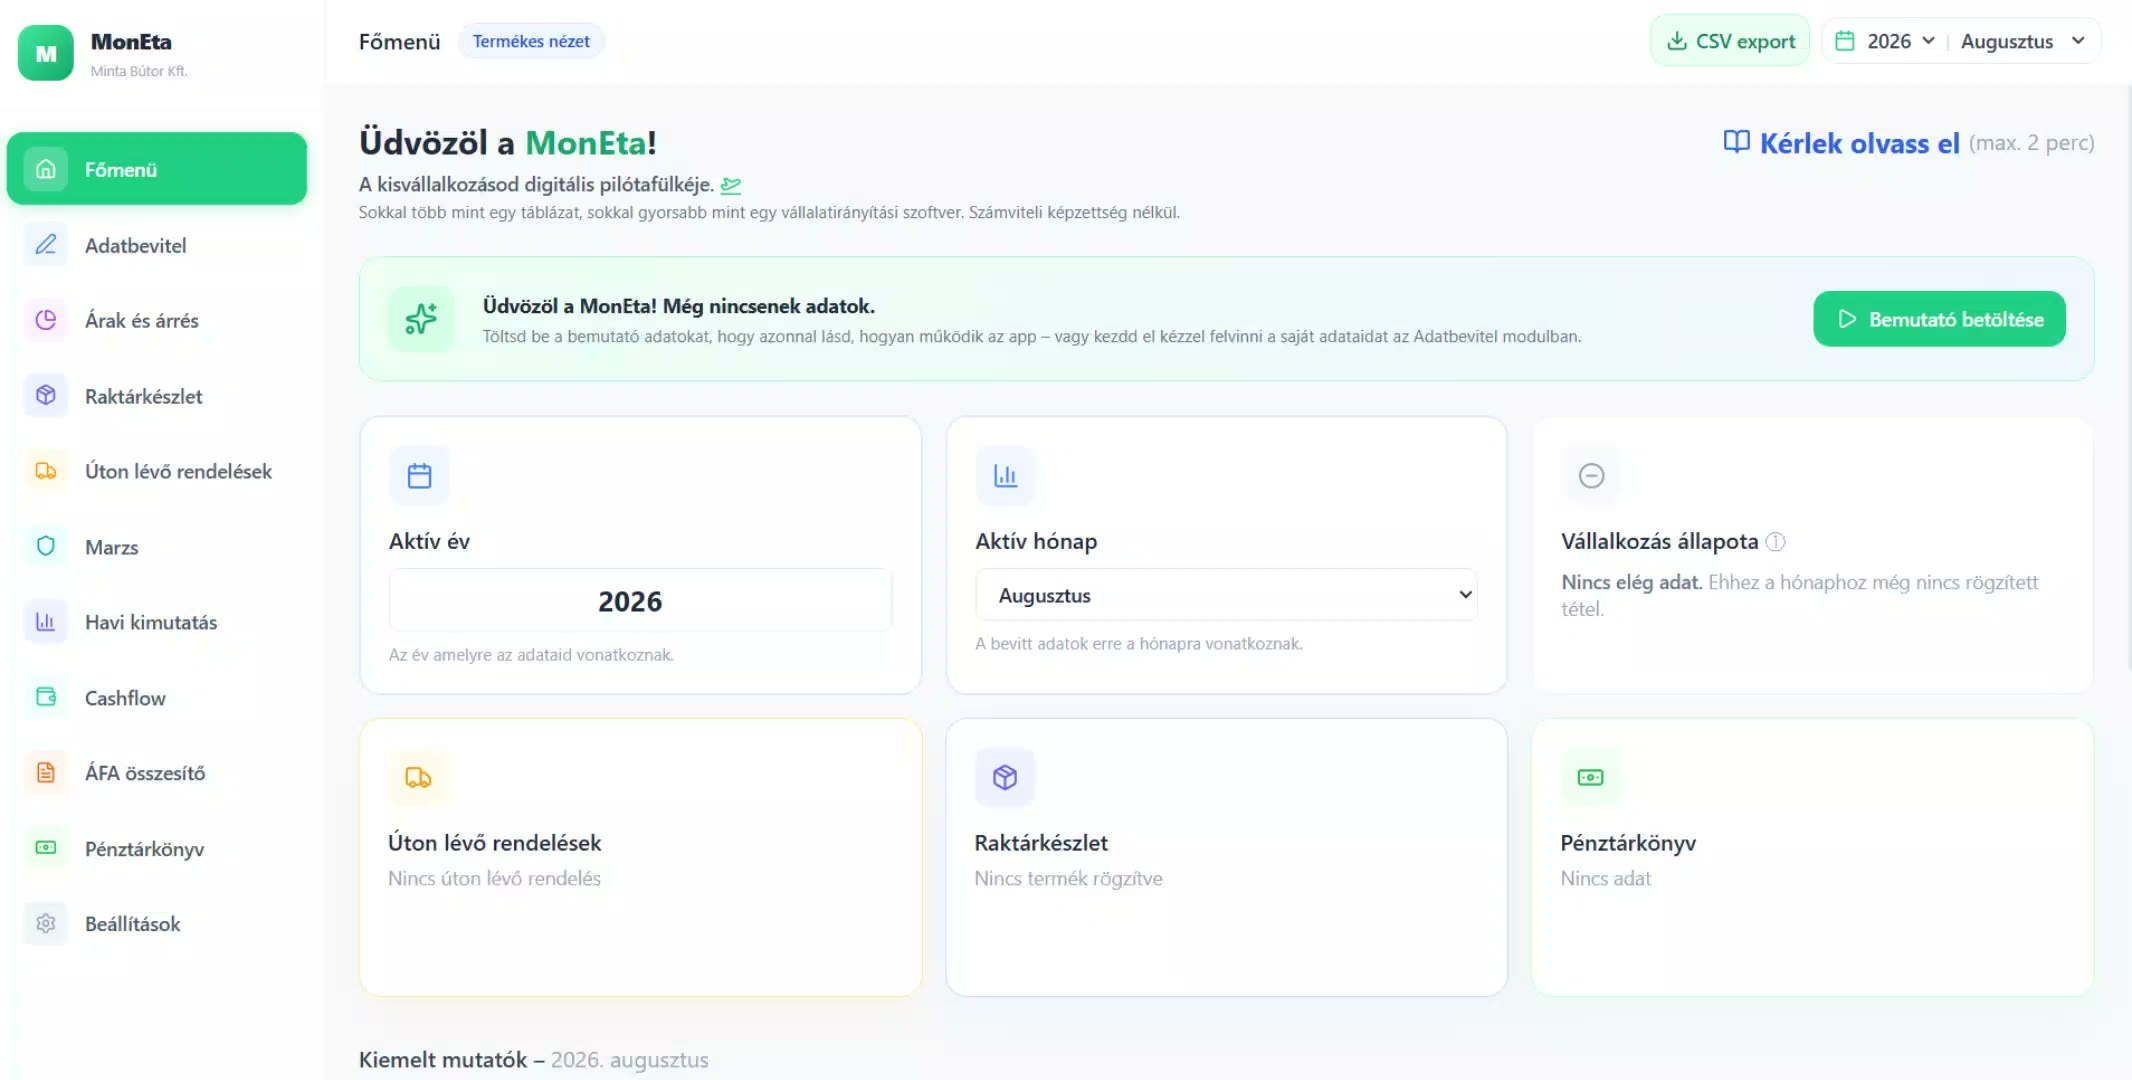
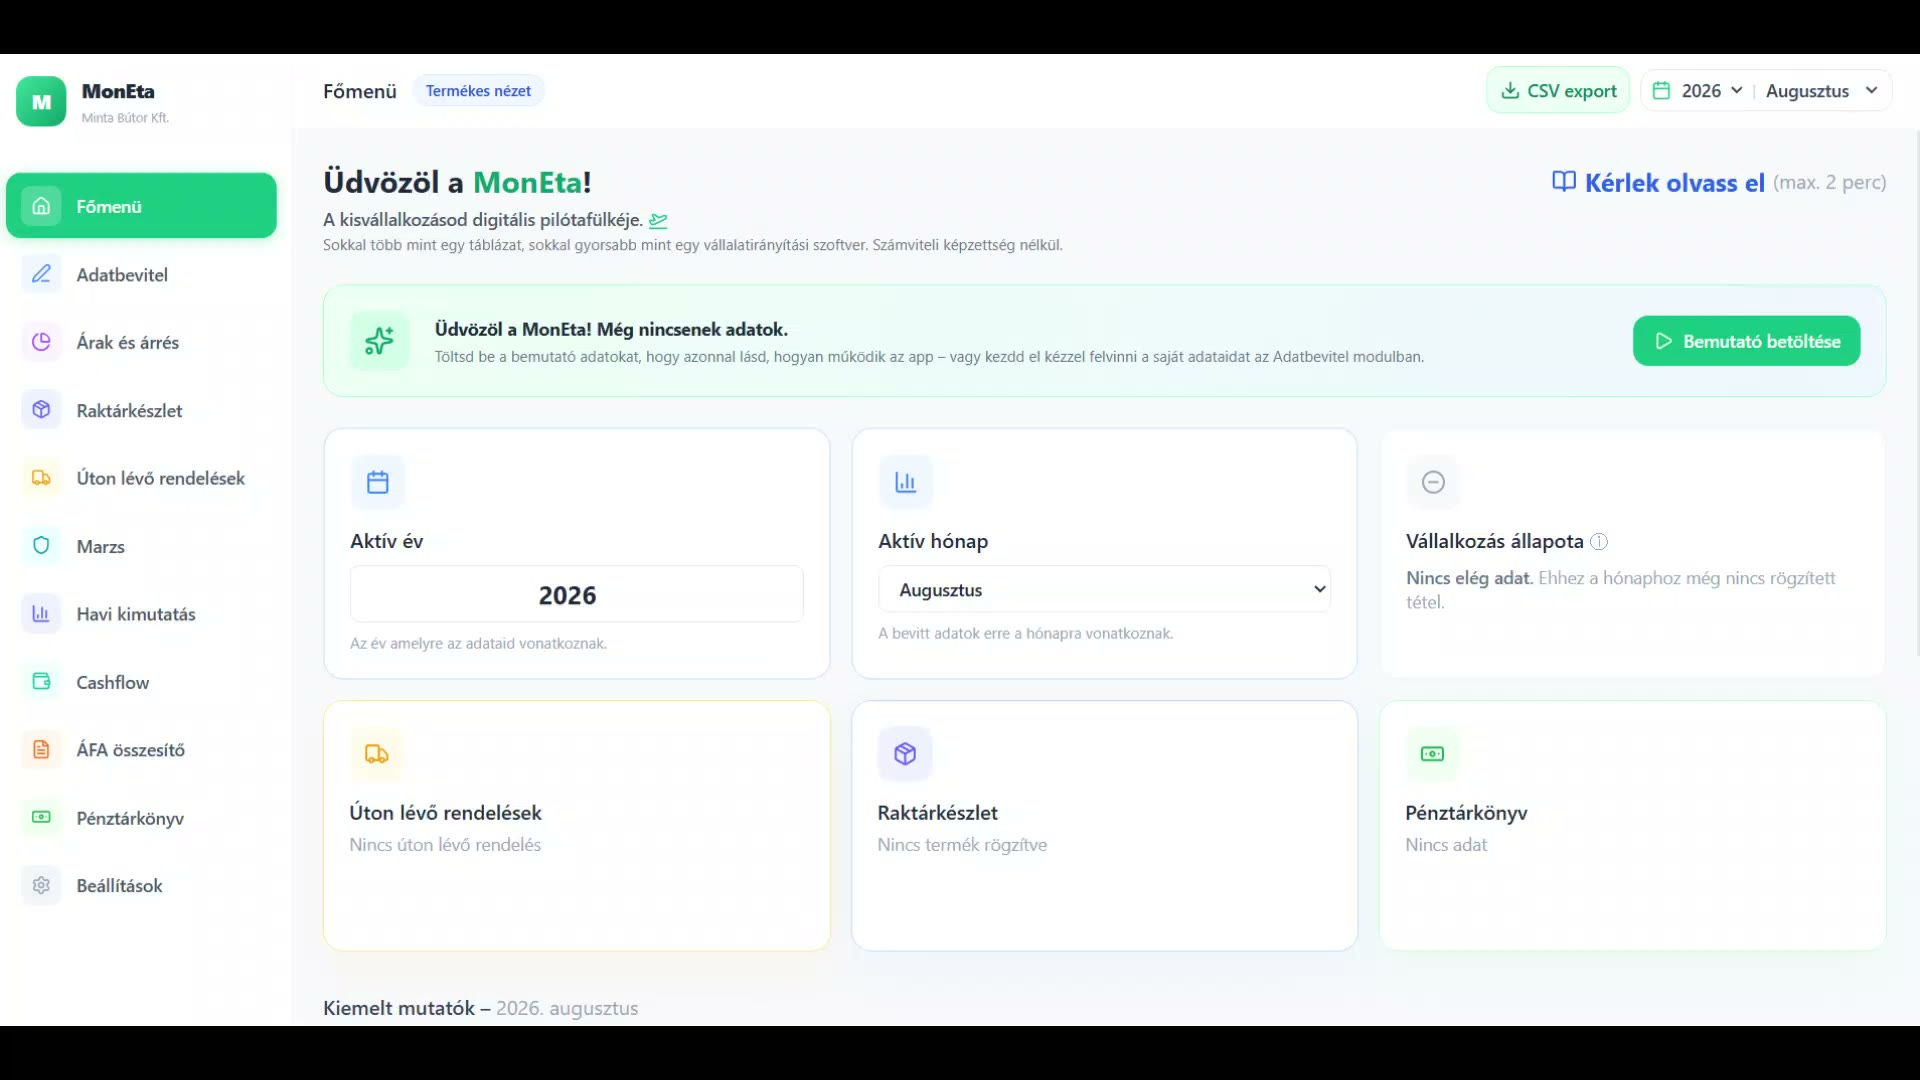
Onboarding videó 16:9-es verzióra cserélve (teljes képernyőn nincs fekete/zöld sáv)
- ONBOARDING.mp4: 2132x1080 -> 1920x1080 (16:9), új poszter
- .video-frame képarány 16:9-re igazítva, hogy beágyazva is pontosan illeszkedjen

diff --git a/igy-mukodik/index.html b/igy-mukodik/index.html
@@ -66,7 +66,7 @@
     .heading h1{margin:0;font-size:36px;line-height:1.111;font-weight:800;letter-spacing:-.025em}
     .lead{margin:22px 0 0;max-width:760px;color:#64748b;font-size:18px;line-height:1.75}
     .video-section{display:grid;grid-template-columns:minmax(0,1.45fr) minmax(270px,.55fr);gap:24px;margin-top:38px}
-    .video-frame{position:relative;overflow:hidden;aspect-ratio:2132/1080;border:1px solid rgba(34,181,115,.42);border-radius:28px;background:radial-gradient(circle at 50% 35%,rgba(34,181,115,.14),transparent 34%),linear-gradient(145deg,#f8fffb,#eef9f3);box-shadow:0 24px 70px rgba(16,42,42,.08)}
+    .video-frame{position:relative;overflow:hidden;aspect-ratio:16/9;border:1px solid rgba(34,181,115,.42);border-radius:28px;background:radial-gradient(circle at 50% 35%,rgba(34,181,115,.14),transparent 34%),linear-gradient(145deg,#f8fffb,#eef9f3);box-shadow:0 24px 70px rgba(16,42,42,.08)}
     .video-frame video{position:absolute;inset:0;width:100%;height:100%;object-fit:contain;border:0;display:block;background:#eef9f3}
     .video-frame video:fullscreen{background:#eef9f3;object-fit:contain}
     .video-frame video:-webkit-full-screen{background:#eef9f3;object-fit:contain}